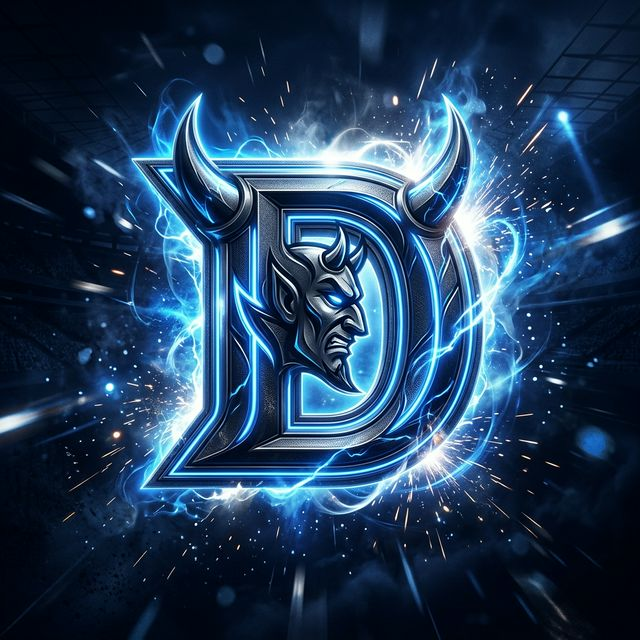
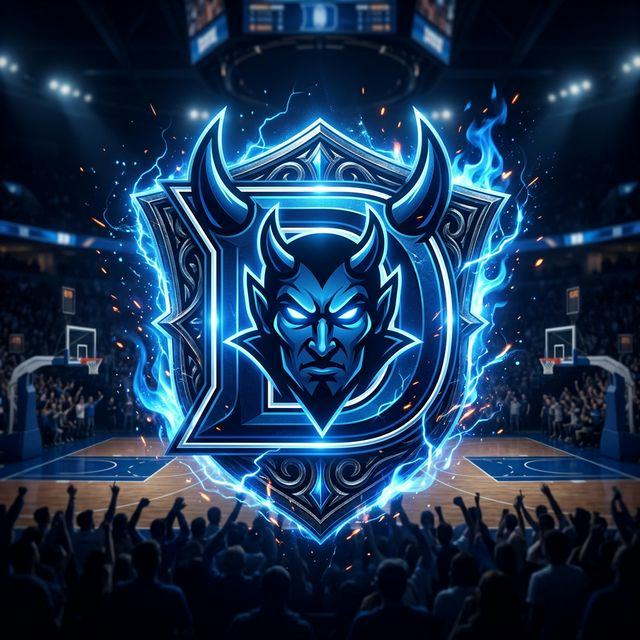
feat: add TEAM_IMAGES map (30 NBA + 16 NCAAB + 3 NHL + 3 soccer) with auto team-image lookup in normalizeGame()

diff --git a/index.html b/index.html
@@ -1240,10 +1240,70 @@
     }
   }
 
-  // ═══ Sport image mapping (for live API games that don't have img field) ═══
+  // ═══ Team image mapping (team-specific → sport fallback → generic) ═══
+  const TEAM_IMAGES = {
+    // ─── NBA (30 teams) ───
+    'Boston Celtics':'assets/images/celtics_basketball.png',
+    'Los Angeles Lakers':'assets/images/lakers_basketball.png',
+    'Phoenix Suns':'assets/images/suns_basketball.png',
+    'Golden State Warriors':'assets/images/warriors_basketball.png',
+    'Milwaukee Bucks':'assets/images/bucks_basketball.png',
+    'Denver Nuggets':'assets/images/nuggets_basketball.png',
+    'Philadelphia 76ers':'assets/images/sixers_basketball.png',
+    'Miami Heat':'assets/images/heat_basketball.png',
+    'Dallas Mavericks':'assets/images/mavericks_basketball.png',
+    'New York Knicks':'assets/images/knicks_basketball.png',
+    'LA Clippers':'assets/images/clippers_basketball.png',
+    'Chicago Bulls':'assets/images/bulls_basketball.png',
+    'Cleveland Cavaliers':'assets/images/cavaliers_basketball.png',
+    'Oklahoma City Thunder':'assets/images/thunder_basketball.png',
+    'Atlanta Hawks':'assets/images/hawks_basketball.png',
+    'Minnesota Timberwolves':'assets/images/timberwolves_basketball.png',
+    'Indiana Pacers':'assets/images/pacers_basketball.png',
+    'Brooklyn Nets':'assets/images/nets_basketball.png',
+    'Toronto Raptors':'assets/images/raptors_basketball.png',
+    'New Orleans Pelicans':'assets/images/pelicans_basketball.png',
+    'Memphis Grizzlies':'assets/images/grizzlies_basketball.png',
+    'Sacramento Kings':'assets/images/kings_basketball.png',
+    'Portland Trail Blazers':'assets/images/blazers_basketball.png',
+    'Orlando Magic':'assets/images/magic_basketball.png',
+    'Washington Wizards':'assets/images/wizards_basketball.png',
+    'Charlotte Hornets':'assets/images/hornets_basketball.png',
+    'Detroit Pistons':'assets/images/pistons_basketball.png',
+    'Houston Rockets':'assets/images/rockets_basketball.png',
+    'San Antonio Spurs':'assets/images/spurs_basketball.png',
+    'Utah Jazz':'assets/images/jazz_basketball.png',
+    // ─── NCAAB March Madness (16 teams) ───
+    'Duke Blue Devils':'assets/images/duke_basketball.png',
+    'North Carolina Tar Heels':'assets/images/unc_basketball.png',
+    'Kansas Jayhawks':'assets/images/kansas_basketball.png',
+    'UConn Huskies':'assets/images/uconn_basketball.png',
+    'Purdue Boilermakers':'assets/images/purdue_basketball.png',
+    'Houston Cougars':'assets/images/houston_basketball.png',
+    'Kentucky Wildcats':'assets/images/kentucky_basketball.png',
+    'Auburn Tigers':'assets/images/auburn_basketball.png',
+    'Tennessee Volunteers':'assets/images/tennessee_basketball.png',
+    'Gonzaga Bulldogs':'assets/images/gonzaga_basketball.png',
+    'Arizona Wildcats':'assets/images/arizona_basketball.png',
+    'Iowa State Cyclones':'assets/images/iowastate_basketball.png',
+    'Michigan State Spartans':'assets/images/michiganstate_basketball.png',
+    'Marquette Golden Eagles':'assets/images/marquette_basketball.png',
+    'Baylor Bears':'assets/images/baylor_basketball.png',
+    'Alabama Crimson Tide':'assets/images/alabama_basketball.png',
+    // ─── NHL (3 teams — more coming) ───
+    'Boston Bruins':'assets/images/bruins_hockey.png',
+    'Edmonton Oilers':'assets/images/oilers_hockey.png',
+    'Colorado Avalanche':'assets/images/avalanche_hockey.png',
+    // ─── EPL / La Liga (3 teams — more coming) ───
+    'Manchester City':'assets/images/mancity_football.png',
+    'Arsenal':'assets/images/arsenal_football.png',
+    'Real Madrid':'assets/images/realmadrid_football.png',
+  };
+
+  // Sport-level fallback (used when no team-specific image exists)
   const SPORT_IMAGES = {
     'NFL':'assets/images/hero_football.png', 'NCAAF':'assets/images/hero_football.png',
-    'NBA':'assets/images/nba_lakers.png', 'NCAAB':'assets/images/nba_celtics.png', 'WNBA':'assets/images/nba_lakers.png',
+    'NBA':'assets/images/hero_basketball.png', 'NCAAB':'assets/images/hero_basketball.png', 'WNBA':'assets/images/hero_basketball.png',
     'MLB':'assets/images/hero_stadium.png',
     'NHL':'assets/images/hero_aerial.png',
     'EPL':'assets/images/hero_stadium.png', 'La Liga':'assets/images/hero_stadium.png', 'MLS':'assets/images/hero_stadium.png',
@@ -1260,7 +1320,8 @@
   function normalizeGame(g) {
     // If it already has .ai field, it's a DEMO game — return as-is
     if (g.ai) return g;
-    // Live API game from v_active_games
+    // Live API game from v_active_games — cascade: team → sport → generic
+    const teamImg = TEAM_IMAGES[g.home_team] || TEAM_IMAGES[g.away_team];
     return {
       ...g,
       sport: (g.sport || '').toLowerCase(),
@@ -1269,7 +1330,7 @@
       spread: g.spread || (g.line ? String(g.line) : 'PK'),
       status: g.house_lean ? 'house' : ((g.integrity || 100) < 60 ? 'danger' : 'clean'),
       ai: g.reasoning || `Live data from ${g.sources_agree || 0} agreeing sources. Confidence: ${g.confidence || 0}%.`,
-      img: SPORT_IMAGES[(g.sport || '')] || 'assets/images/hero_stadium.png',
+      img: teamImg || SPORT_IMAGES[(g.sport || '')] || 'assets/images/hero_stadium.png',
     };
   }
 
